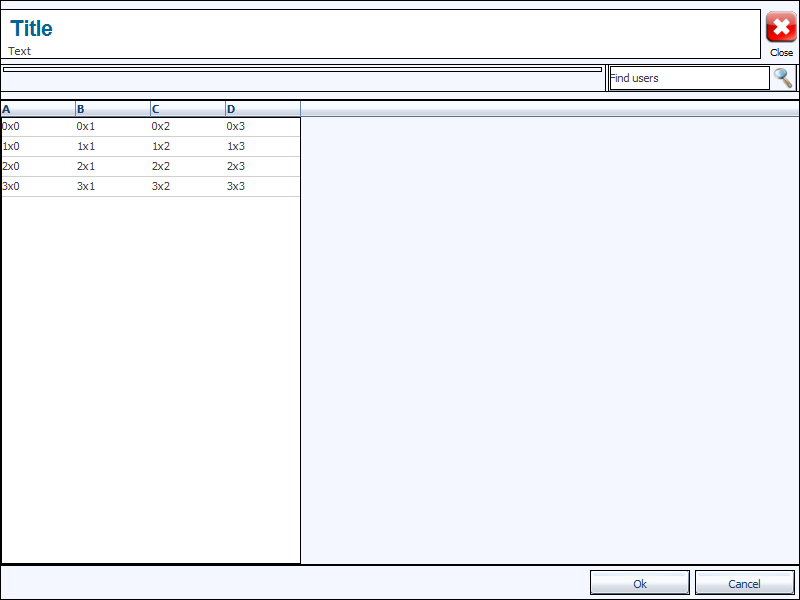
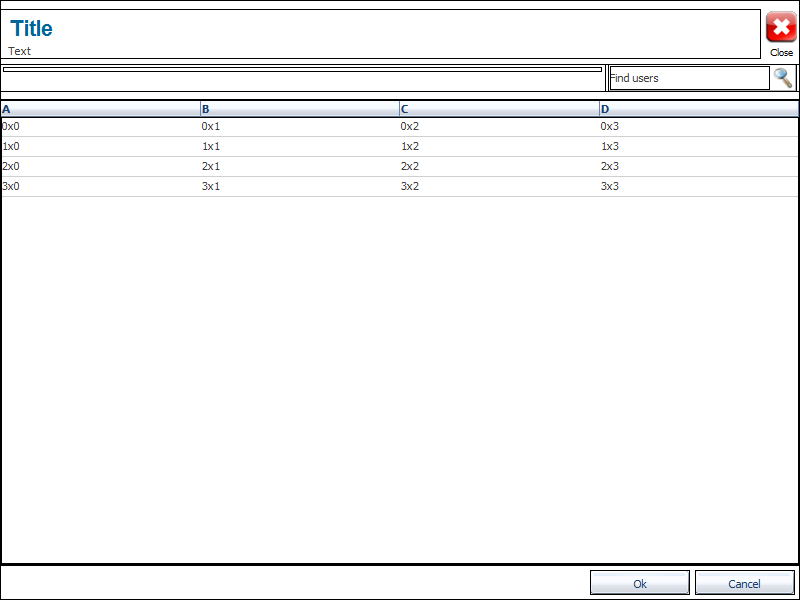
* fix the translated "search users" * add event mapping on seach button on ManagedTeamDisplayList * add logging entries on TaskDisplayList * reviewed by nobody
Former-commit-id: 596782512618986ae517fae7567c061ac8c16adf

diff --git a/WorkflowUI/src_rd/ch/ivyteam/ivy/workflow/ui/administration/ManagedTeamsDisplayList/ManagedTeamsDisplayListPanel.java b/WorkflowUI/src_rd/ch/ivyteam/ivy/workflow/ui/administration/ManagedTeamsDisplayList/ManagedTeamsDisplayListPanel.java
@@ -22,6 +22,7 @@ import ch.ivyteam.ivy.richdialog.widgets.containers.RGridBagLayoutPane;
 import com.ulcjava.base.application.BorderFactory;
 import com.ulcjava.base.application.border.ULCEtchedBorder;
 import ch.ivyteam.ivy.richdialog.widgets.components.RTextField;
+import com.ulcjava.base.application.ULCTable;
 
 /**
  * RichDialog panel implementation for ManagingRolesDisplayListPanel.
@@ -96,6 +97,7 @@ private RTableWithExcelExport getUsersManagingRolesTable() {
 		usersManagingRolesTable.setName("usersManagingRolesTable");
 		usersManagingRolesTable.setModelConfiguration("{/showTableheader true /autoTableheader false /showtooltip false /showIcons true /version \"3.0\"/columns {{/result \"result=\\\"<html><b>\\\" + entry.user.getName() + \\\"</b>\\\" + \\r\\n\\t(entry.user.getFullName() is initialized? \\\" (\\\" + entry.user.getFullName() + \\\")\\\": \\\"\\\")\"/version \"3.0\"/tooltip \"\"/icon \"result=ivy.cms.cr(\\\"/ch/ivyteam/ivy/workflow/ui/security/images/user16\\\")\"/header \"ivy.cms.co(\\\"/ch/ivyteam/ivy/workflow/ui/security/plainStrings/userShortDesc\\\")\"/field \"\"/editable \"\"/condition \"\"/columnWidth \"300\"/columnStyle \"labelLikeTableCell\"/cellWidget \"\"}{/result \"result=value\"/version \"3.0\"/tooltip \"\"/icon \"\"/header \"ivy.cms.co(\\\"/ch/ivyteam/ivy/workflow/ui/administration/plainStrings/managedTeamsShortDesc\\\")\"/field \"userManagedTeams\"/editable \"true\"/condition \"\"/columnWidth \"500\"/cellWidget \"managingRolesTextFieldCellWidget\"}}}");
 		usersManagingRolesTable.setRowHeight(20);
+		usersManagingRolesTable.setAutoResizeMode(ULCTable.AUTO_RESIZE_LAST_COLUMN);
 		usersManagingRolesTable.setSortable(true);
 	}
 	return usersManagingRolesTable;
